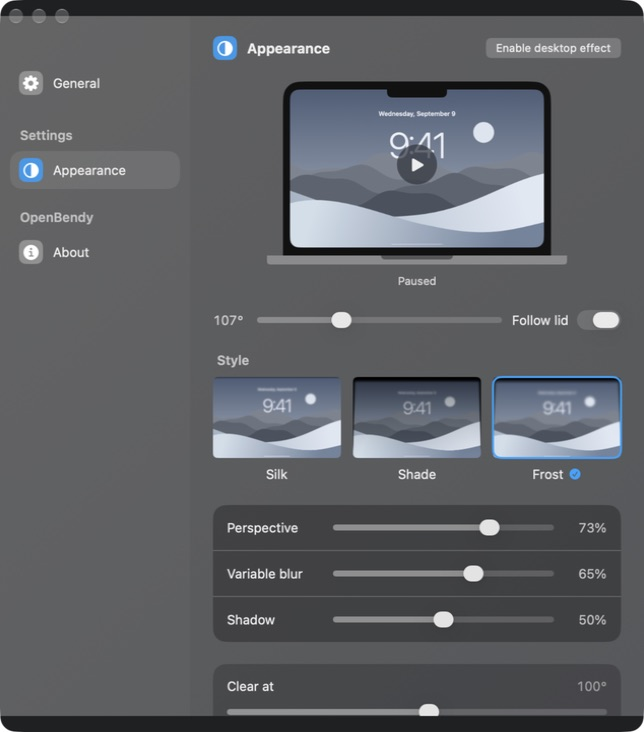
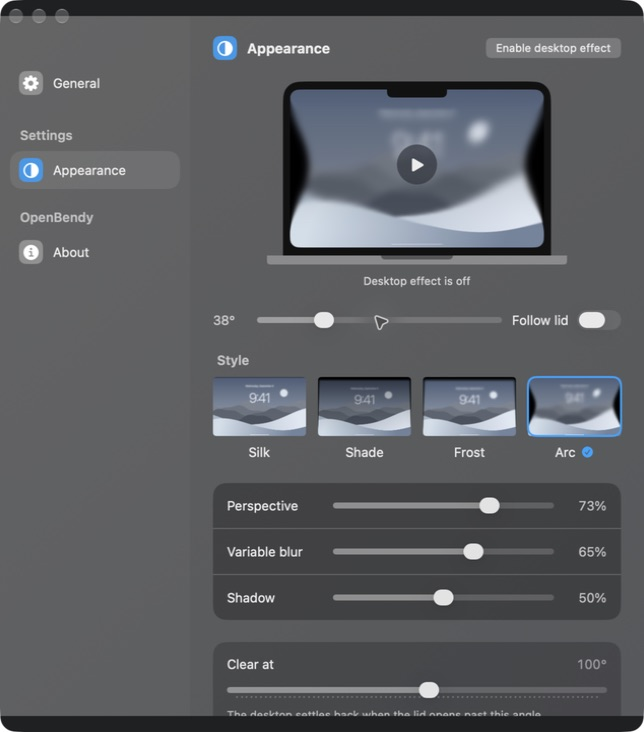
Add Arc desktop effect with curved sides and progressive blur

diff --git a/OpenBendyTests/OpenBendyTests.swift b/OpenBendyTests/OpenBendyTests.swift
@@ -21,9 +21,9 @@ final class OpenBendyTests: XCTestCase {
         let defaults = UserDefaults(suiteName: key)!
         defer { defaults.removePersistentDomain(forName: key) }
         let p = Preferences(defaults: defaults)
-        p.style = .frost; p.blur = 0.23; p.clearAngle = 120; p.sound = false
+        p.style = .arc; p.blur = 0.23; p.clearAngle = 120; p.sound = false
         let restored = Preferences(defaults: defaults)
-        XCTAssertEqual(restored.style, .frost); XCTAssertEqual(restored.blur, 0.23)
+        XCTAssertEqual(restored.style, .arc); XCTAssertEqual(restored.blur, 0.23)
         XCTAssertEqual(restored.clearAngle, 120); XCTAssertFalse(restored.sound)
         p.enabled = true
         XCTAssertTrue(Preferences(defaults: defaults).resumeDesktopEffect)
@@ -101,6 +101,46 @@ final class OpenBendyTests: XCTestCase {
         XCTAssertNoThrow(try renderer.submitPreview(cgImage))
     }
 
+    func testArcBowsSidesWhilePreservingFullHeightAndPinnedEdges() throws {
+        func geometry(_ size: Int) throws -> Double {
+            let fixture = try GPUFixture(width: size, height: size)
+            var previousInset = 0
+            for progress: Float in [0, 0.2, 0.6, 0.9] {
+                let pixels = try fixture.render(progress: progress, blur: 0, shadow: 0, style: 3)
+                for y in 0..<size {
+                    XCTAssertGreaterThan(pixels[(y * size + size / 2) * 4], 250, "Arc must keep the desktop at full height.")
+                }
+                for y in [size / 50, size - 3] { for x in 0..<size {
+                    XCTAssertEqual(pixels[(y * size + x) * 4], 255, "The menu and hinge edges stay pinned.")
+                } }
+                let row = (0..<size).map { Int(pixels[(size / 2 * size + $0) * 4]) }
+                let inset = try XCTUnwrap(row.firstIndex(where: { $0 >= 128 }))
+                XCTAssertGreaterThanOrEqual(inset, previousInset)
+                previousInset = inset
+                for x in 0..<size / 2 { XCTAssertEqual(row[x], row[size - 1 - x], accuracy: 1) }
+            }
+            XCTAssertGreaterThan(previousInset, size / 10, "The body must visibly curve inward.")
+            return Double(previousInset) / Double(size)
+        }
+        XCTAssertEqual(try geometry(256), try geometry(512), accuracy: 0.005)
+    }
+
+    func testArcDiffusionPreservesMenuAndDockAndClearsExactly() throws {
+        let size = 512
+        var pixels = [UInt8](repeating: 255, count: size * size * 4)
+        for y in 0..<size { for x in 0..<size { for channel in 0..<3 {
+            pixels[(y * size + x) * 4 + channel] = (x / 3) % 2 == 0 ? 255 : 0
+        } } }
+        let fixture = try GPUFixture(width: size, height: size, pixels: pixels)
+        let blurred = try fixture.render(progress: 0.12, perspective: 0, blur: 1, shadow: 0, style: 3)
+        let row = (100..<400).map { Int(blurred[(size / 3 * size + $0) * 4]) }
+        XCTAssertLessThan(row.max()! - row.min()!, 100, "The body diffuses early in the lid movement.")
+        for y in [size / 50, size - 3] { for x in 0..<size {
+            XCTAssertEqual(blurred[(y * size + x) * 4], pixels[(y * size + x) * 4])
+        } }
+        XCTAssertEqual(try fixture.render(progress: 0, style: 3), pixels, "Reopening must restore every pixel.")
+    }
+
     func testRenderReferenceReviewFrames() throws {
         let width = 960, height = 600
         let colorSpace = CGColorSpaceCreateDeviceRGB()
@@ -124,15 +164,17 @@ final class OpenBendyTests: XCTestCase {
         let fixture = try GPUFixture(width: width, height: height, pixels: bytes)
         let directory = URL(fileURLWithPath: "/private/tmp/openbendy-qa")
         try FileManager.default.createDirectory(at: directory, withIntermediateDirectories: true)
-        for (index, progress) in [Float(0), 0.08, 0.3, 0.6, 0.9].enumerated() {
-            let output = try fixture.render(progress: progress, shadow: 0.5)
+        for (label, style) in [("frame", Float(0)), ("arc", Float(3))] {
+          for (index, progress) in [Float(0), 0.08, 0.3, 0.6, 0.9].enumerated() {
+            let output = try fixture.render(progress: progress, shadow: 0.5, style: style)
             let provider = try XCTUnwrap(CGDataProvider(data: Data(output) as CFData))
             let image = try XCTUnwrap(CGImage(width: width, height: height, bitsPerComponent: 8, bitsPerPixel: 32,
                 bytesPerRow: width * 4, space: colorSpace,
                 bitmapInfo: CGBitmapInfo(rawValue: CGBitmapInfo.byteOrder32Little.rawValue | CGImageAlphaInfo.premultipliedFirst.rawValue),
                 provider: provider, decode: nil, shouldInterpolate: false, intent: .defaultIntent))
             let png = try XCTUnwrap(NSBitmapImageRep(cgImage: image).representation(using: .png, properties: [:]))
-            try png.write(to: directory.appendingPathComponent("frame-\(index).png"))
+            try png.write(to: directory.appendingPathComponent("\(label)-\(index).png"))
+          }
         }
     }
 }

diff --git a/OpenBendy/SettingsView.swift b/OpenBendy/SettingsView.swift
@@ -78,7 +78,7 @@ struct SettingsView: View {
                     ForEach(BendStyle.allCases) { style in
                         Button { prefs.style = style } label: {
                             VStack(spacing: 7) {
-                                PreviewEffect(params: .init(angle: 62, clearAngle: 135, perspective: style == .silk ? 0 : 0.3, blur: style == .frost ? 0.8 : 0.65, shadow: style == .shade ? 1 : 0.2, style: style))
+                                PreviewEffect(params: .init(angle: 62, clearAngle: 135, perspective: style == .arc ? 1 : (style == .silk ? 0 : 0.3), blur: style == .frost ? 0.8 : 0.65, shadow: style == .shade ? 1 : 0.2, style: style))
                                     .aspectRatio(1.58, contentMode: .fit)
                                     .background(.black.opacity(0.3), in: RoundedRectangle(cornerRadius: 8))
                                     .overlay(RoundedRectangle(cornerRadius: 8).stroke(prefs.style == style ? Color(hex: 0x00a4ff) : .clear, lineWidth: 2))
@@ -152,7 +152,7 @@ struct SettingsView: View {
             Link("openbendy.com", destination: URL(string: "https://openbendy.com")!)
             Text("Your desktop bends as you close the lid.").font(.system(size: 15))
             Text("Native SwiftUI, ScreenCaptureKit and Metal.\nBuilt for Apple silicon Macs running macOS 14 or later.").foregroundStyle(.secondary).lineSpacing(5)
-            Text("Version 1.0.2").font(.system(size: 11)).foregroundStyle(.secondary)
+            Text("Version 1.0.3").font(.system(size: 11)).foregroundStyle(.secondary)
         }
     }
 }

diff --git a/OpenBendy/Preferences.swift b/OpenBendy/Preferences.swift
@@ -15,7 +15,7 @@ struct BendParameters {
 }
 
 enum BendStyle: String, CaseIterable, Identifiable {
-    case silk = "Silk", shade = "Shade", frost = "Frost"
+    case silk = "Silk", shade = "Shade", frost = "Frost", arc = "Arc"
     var id: String { rawValue }
     var index: Int { Self.allCases.firstIndex(of: self)! }
 }

diff --git a/QA.md b/QA.md
@@ -5,7 +5,7 @@ Verified on a MacBook Pro with M3 Pro, macOS 27, and Xcode 26.1.1.
 ## Completed
 
 - Debug and Release builds succeeded.
-- Seven XCTest cases passed, including Metal readback and SwiftUI preview texture upload.
+- Nine XCTest cases passed, including Metal readback and SwiftUI preview texture upload.
 - Native settings controls were exercised: styles, preview playback, effect sliders,
   Follow lid, navigation, sound toggle, reset, and permission recovery.
 - ScreenCaptureKit started after Screen Recording permission was granted.
@@ -34,3 +34,14 @@ Hardware compatibility beyond the tested MacBook has not been verified.
 - Strict signature checks passed for both Apple silicon and Intel architectures.
 - Gatekeeper assessment returned `accepted`, with source `Notarized Developer ID`.
 - Signing private keys and API credentials are excluded from source and release archives.
+
+## Arc effect (1.0.3)
+
+- Added a fourth selectable effect, Arc, to both the native preview and live renderer.
+- The screen keeps its full height; its sides curve inward while the top and bottom remain pinned.
+- The body softens progressively, using mip-filtered sampling to avoid sparse-tap artifacts.
+- Native checks verified Arc selection, switching back to Silk, manual angle control, preview playback, and version 1.0.3.
+- Two new Metal readback tests cover symmetric and resolution-independent curvature, increasing deformation, pinned edges, early diffusion, and exact restoration. All nine tests pass.
+- Visually reviewed GPU frames and the four-item style row. Labels fit, selection is visible, and all existing controls remain accessible through the native scroll view.
+- Live capture requested renewed Screen Recording permission during the 1.0.3 preview check; physical lid matching for Arc remains a user device check.
+- 1.0.3 notarization accepted submission `1e51a8fb-f3c9-4508-aa2f-5351938c02d6`; the ticket was stapled and validated, and the installed app passed Gatekeeper as `Notarized Developer ID`.

diff --git a/README.md b/README.md
@@ -13,7 +13,8 @@ No web view, accounts, third-party packages, or remote services.
 
 - Live lid tracking with a fold anchored at the screen hinge.
 - Progressive blur, soft edges, and adjustable perspective and shadow.
-- Silk, Shade, and Frost styles.
+- Silk, Shade, Frost, and Arc styles.
+- Arc curves the sides inward while keeping the desktop at full height, with softer upper content and sharp outer top and bottom edges.
 - Interactive preview with manual angle control or live lid tracking.
 - Menu bar controls and Esc to pause the desktop effect.
 - Original SVG icons in `Brand/`.
@@ -71,8 +72,8 @@ reconfiguration; enable it again afterward.
 ./build.sh test
 ```
 
-Seven XCTest cases cover preferences, continuous effect progress, real Metal output,
-soft edges, early blur, hinge detail, resolution consistency, and preview texture upload.
+Nine XCTest cases cover preferences, continuous effect progress, real Metal output,
+soft edges, early blur, hinge detail, resolution consistency, Arc geometry and diffusion, and preview texture upload.
 See [QA.md](QA.md) for verification details and remaining device checks.
 
 ## Source map
